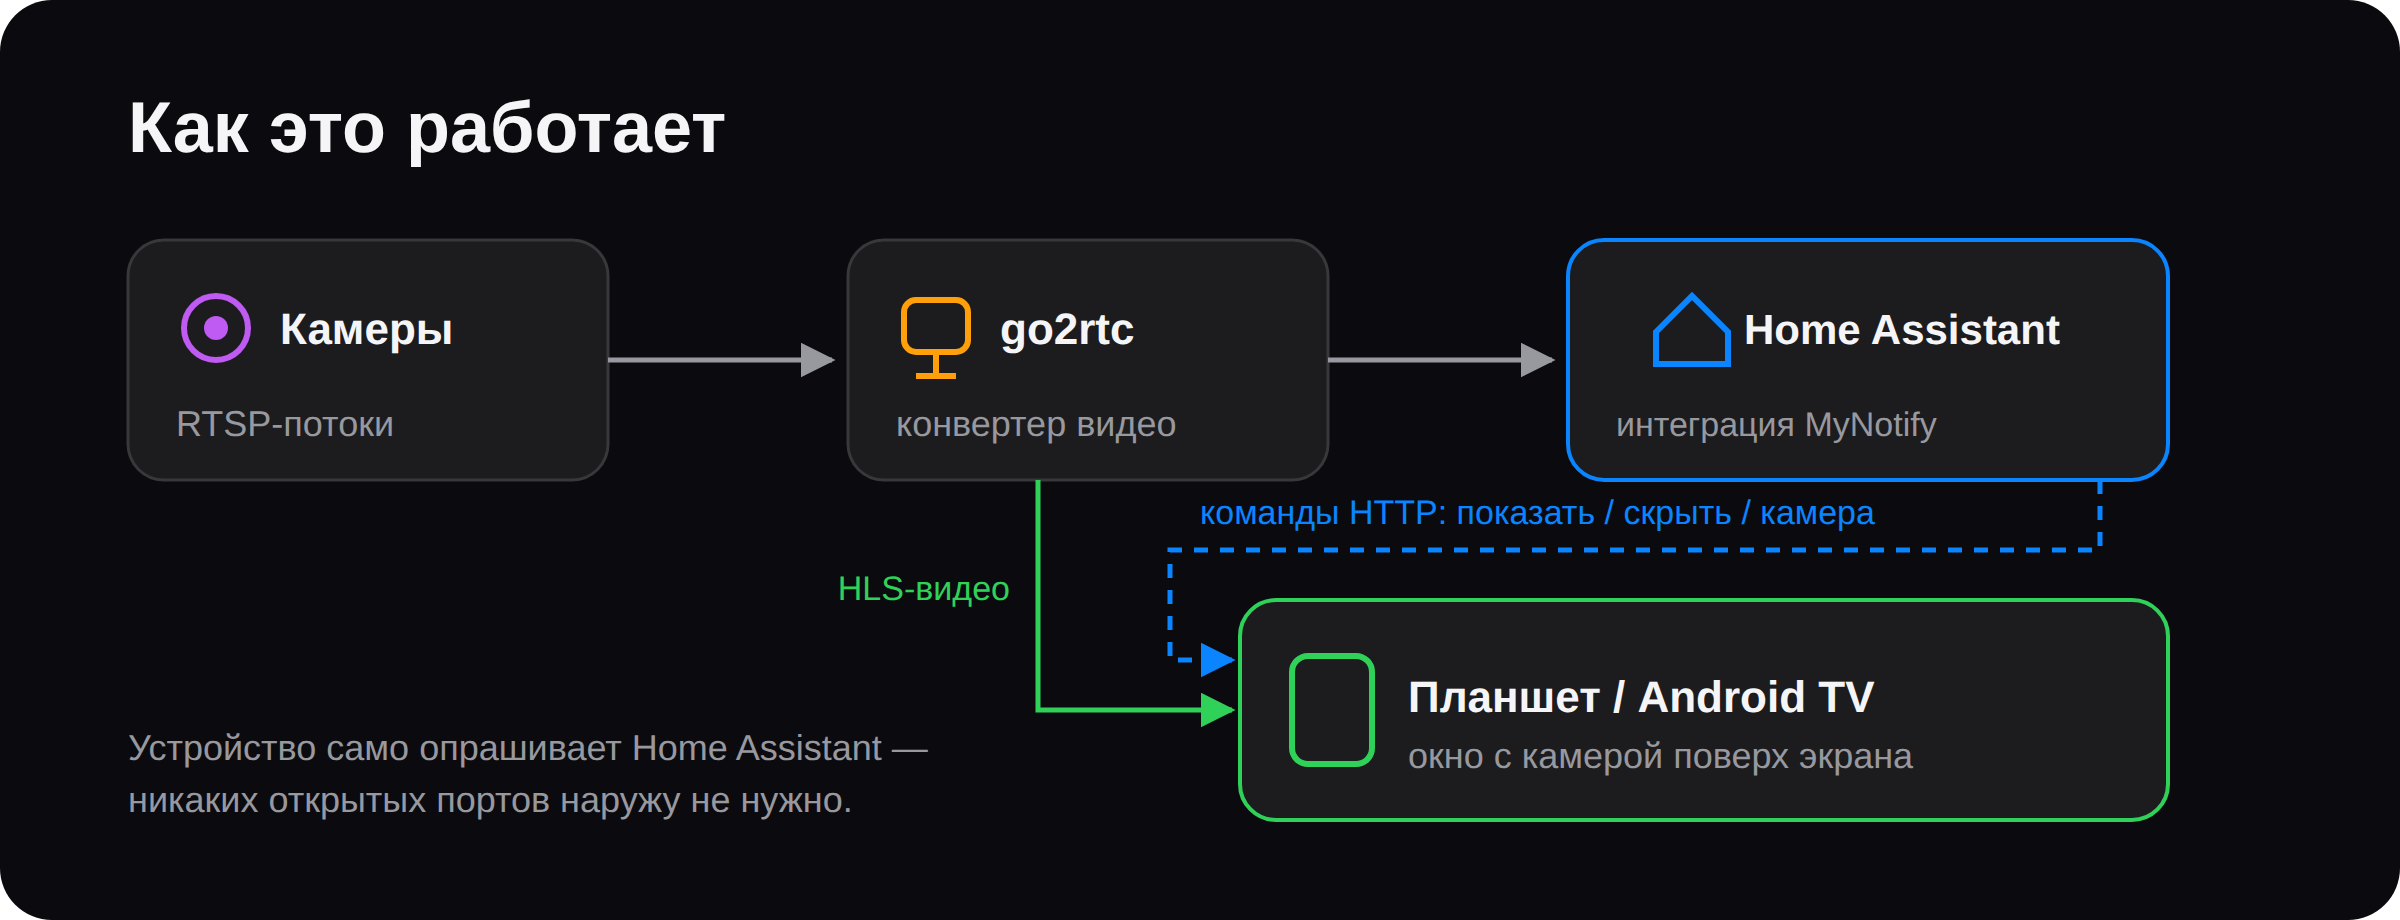
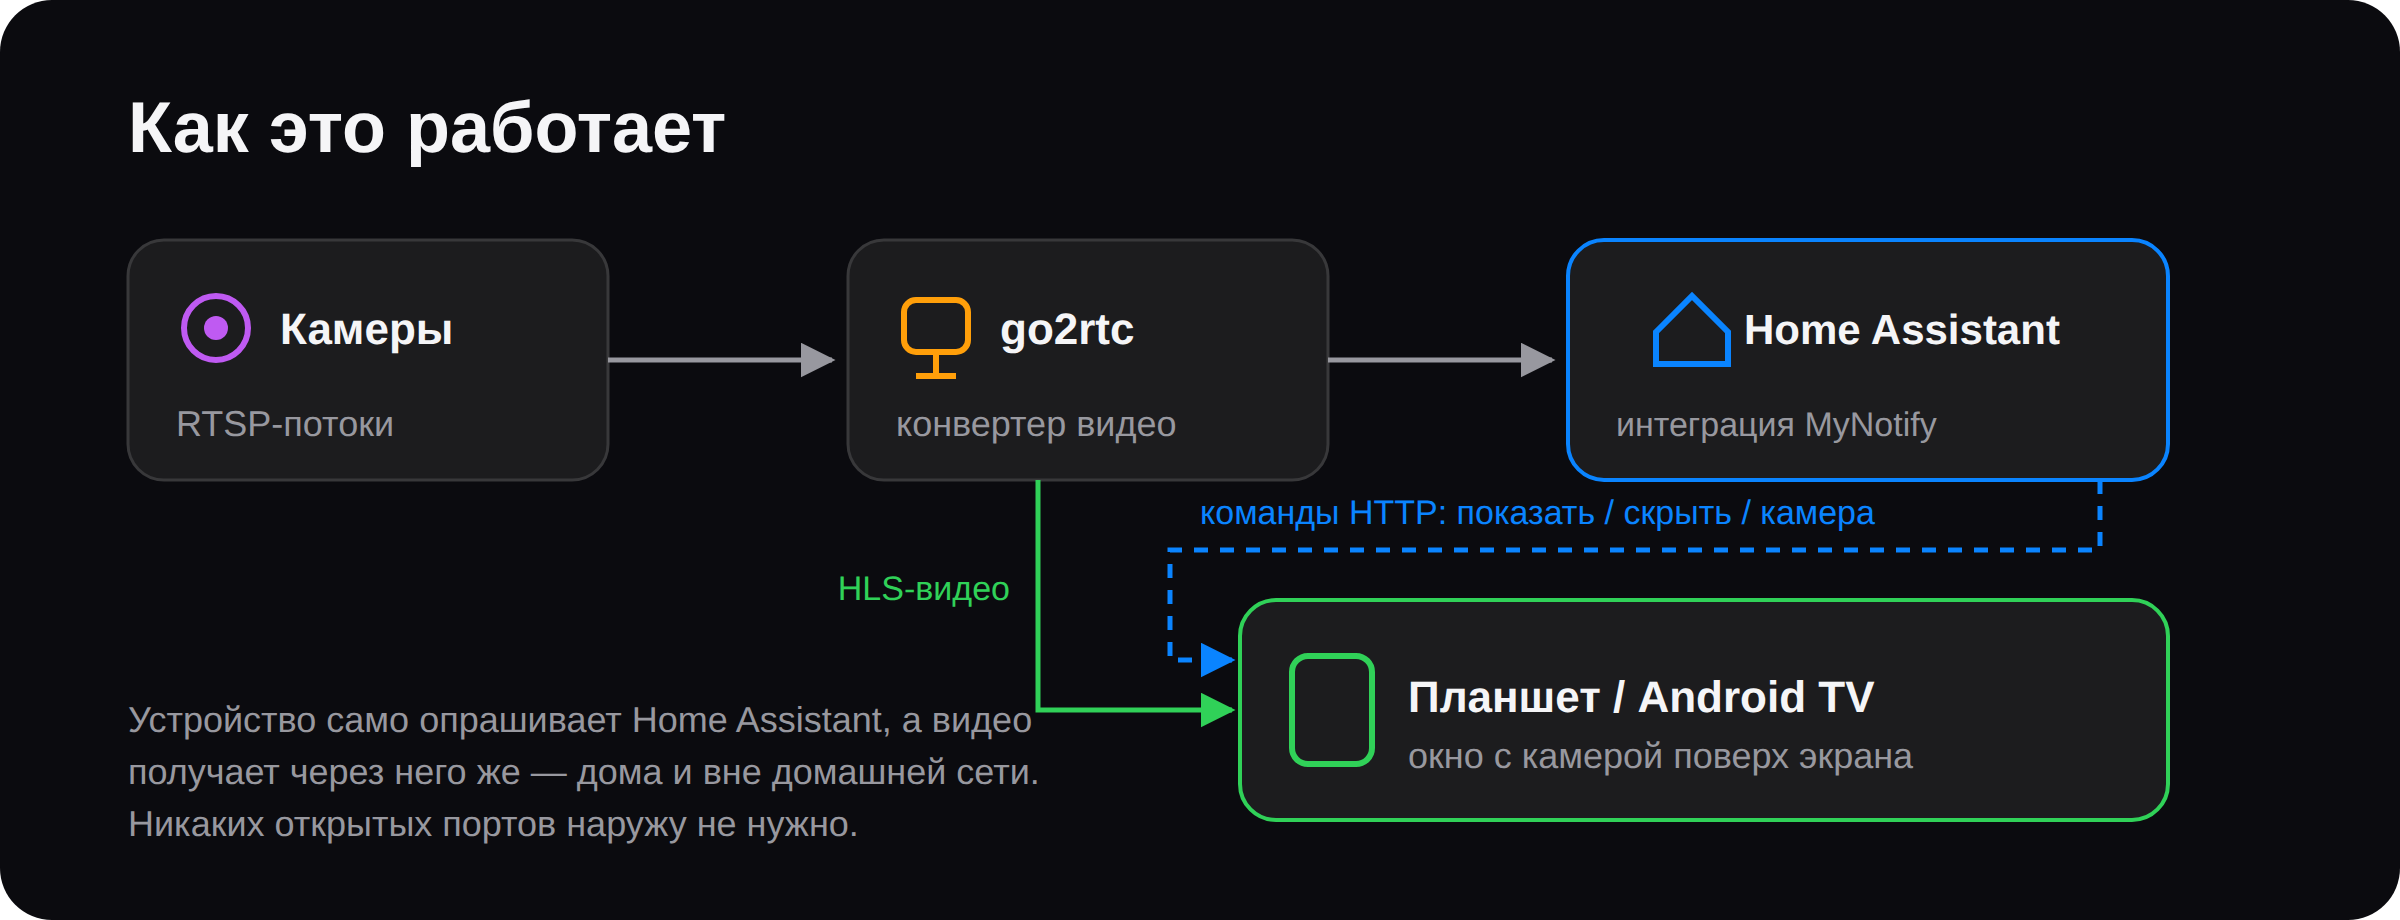
docs: README 0.7.3 — внешний доступ через прокси HA и автообновление из приложения; схемы обновлены (убраны скриншот/запись, добавлен прокси-канал)

Changed region(s): [[0.0312, 0.7609, 0.4375, 0.913]]

diff --git a/README.md b/README.md
@@ -13,7 +13,7 @@
   <a href="LICENSE"><img src="https://img.shields.io/badge/license-MIT-30D158" alt="Лицензия MIT"></a>
 </p>
 
-Текущая версия — **0.6.9** (приложение и интеграция под одним номером,
+Текущая версия — **0.7.3** (приложение и интеграция под одним номером,
 история в [CHANGELOG](CHANGELOG.md)).
 
 ## Простыми словами
@@ -32,6 +32,8 @@
   внешний адрес — это твой собственный HA (домен/Nabu Casa/Tailscale).
   Вне домашней сети видеопоток тоже идёт через HA (встроенный прокси) —
   публиковать go2rtc наружу не нужно.
+- **Обновление без ручных скачиваний:** приложение само проверяет релизы
+  на GitHub и устанавливает новую версию в один тап.
 
 ## Как это работает
 
